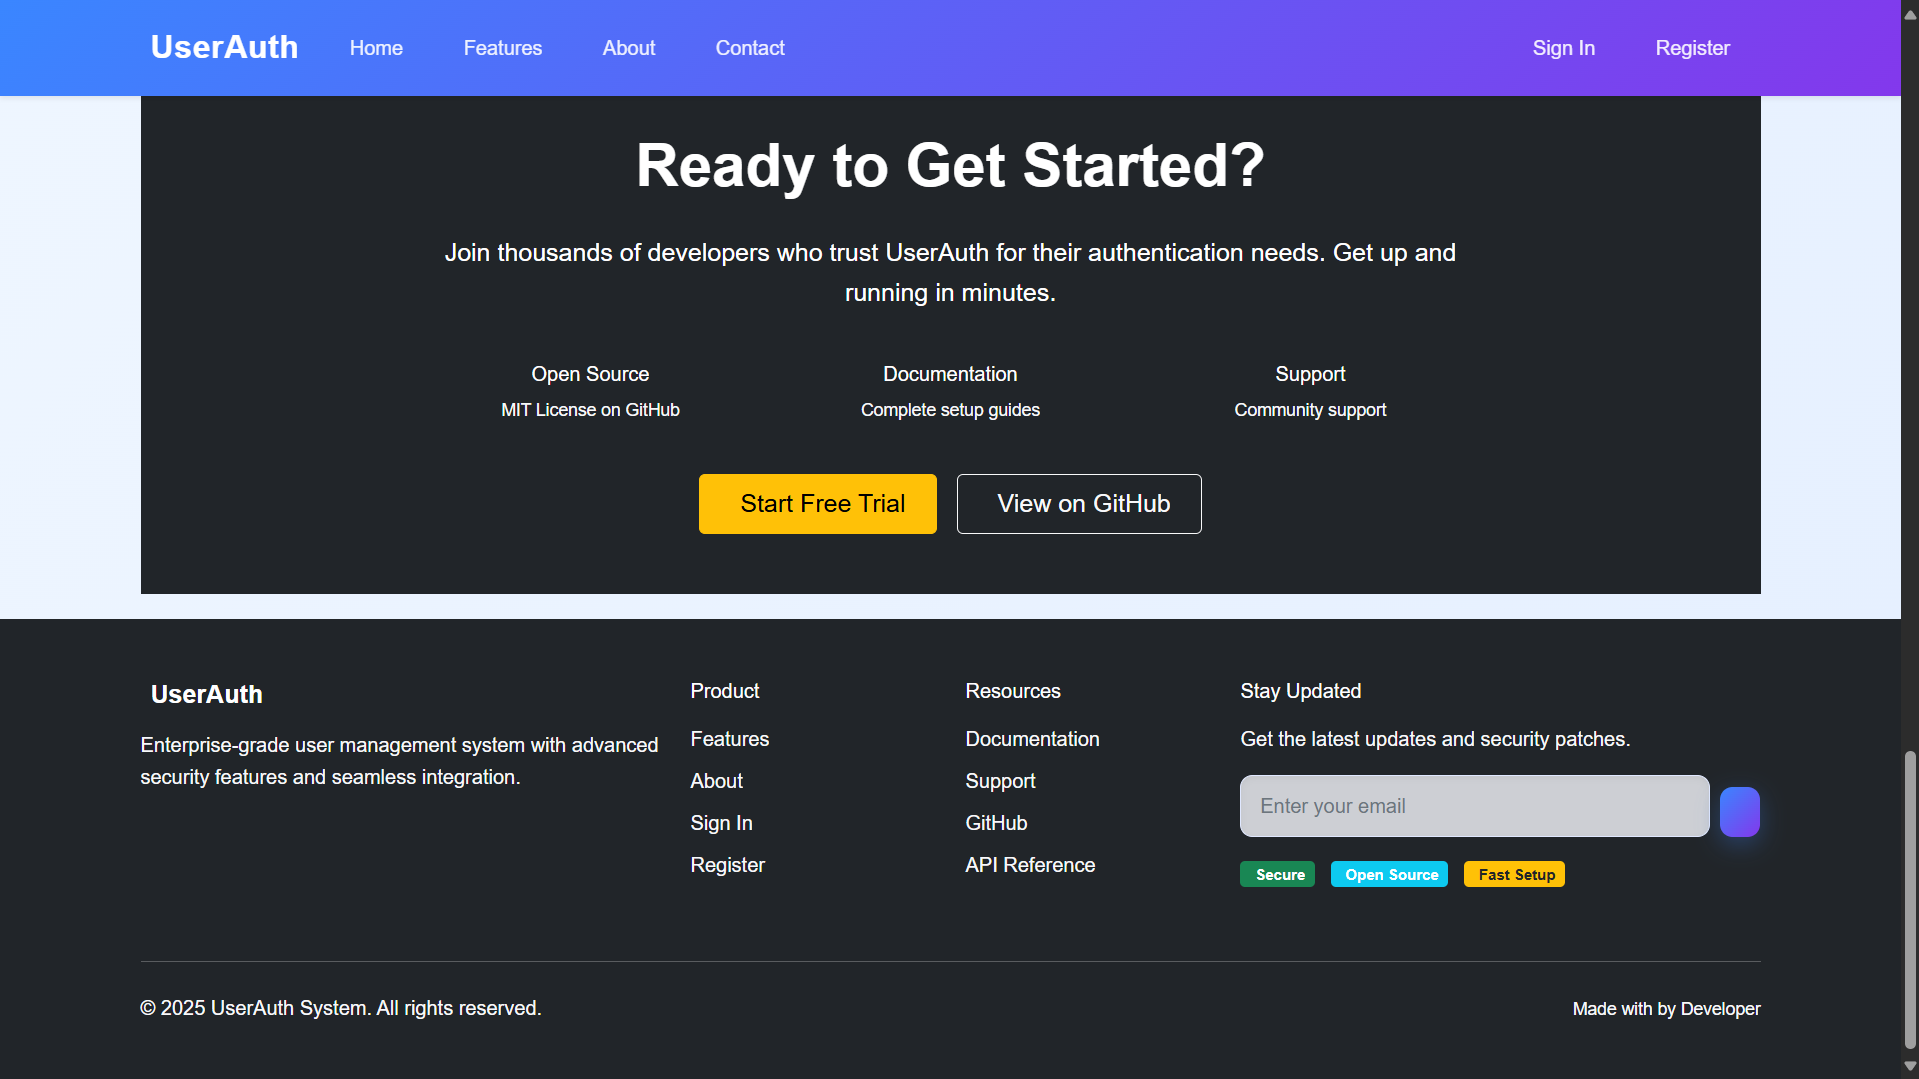
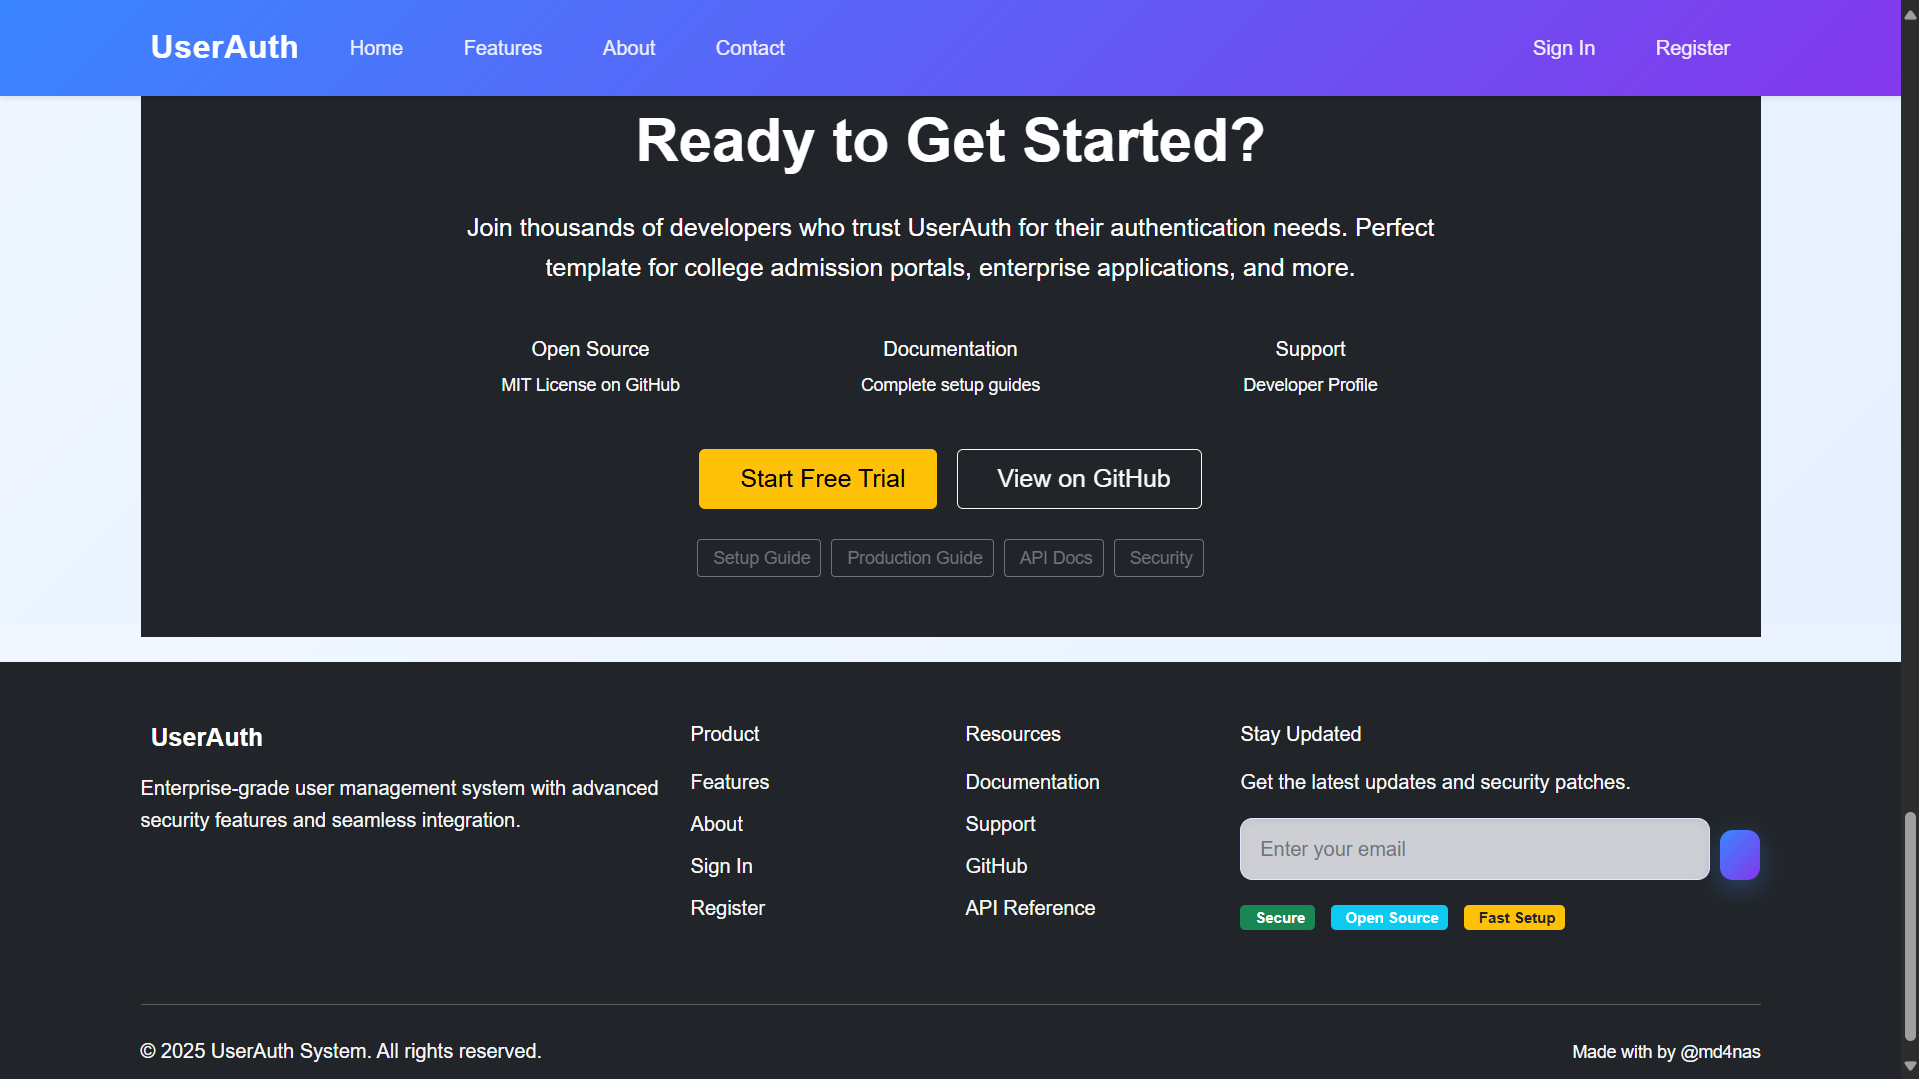
updated README.md, index.html and base.html

diff --git a/src/main/resources/templates/index.html b/src/main/resources/templates/index.html
@@ -37,12 +37,12 @@
                             <a href="/register" class="btn btn-light btn-lg px-5 py-3 fw-semibold shadow-lg hover-lift">
                                 <i class="bi bi-rocket-takeoff me-2"></i>Start Building
                             </a>
-                            <a href="/signin" class="btn btn-outline-light btn-lg px-5 py-3 fw-semibold">
-                                <i class="bi bi-play-circle me-2"></i>View Demo
+                            <a href="https://github.com/md4nas/AdvanceAuthPortal" target="_blank" class="btn btn-outline-light btn-lg px-5 py-3 fw-semibold">
+                                <i class="bi bi-github me-2"></i>View Source
                             </a>
                         </div>
                         
-                        <div class="d-flex align-items-center gap-4 text-white-50">
+                        <div class="d-flex flex-wrap align-items-center gap-4 text-white-50">
                             <div class="d-flex align-items-center">
                                 <i class="bi bi-shield-check text-success me-2"></i>
                                 <span>Enterprise Security</span>
@@ -53,7 +53,7 @@
                             </div>
                             <div class="d-flex align-items-center">
                                 <i class="bi bi-code-slash text-info me-2"></i>
-                                <span>Open Source</span>
+                                <a href="https://github.com/md4nas/AdvanceAuthPortal" target="_blank" class="text-info text-decoration-none">Open Source</a>
                             </div>
                         </div>
                     </div>
@@ -218,6 +218,69 @@
         </div>
     </section>
 
+    <!-- Documentation Section -->
+    <section id="documentation" class="py-5 bg-dark text-white">
+        <div class="container">
+            <div class="row">
+                <div class="col-12 text-center mb-5">
+                    <h2 class="display-5 fw-bold text-white">Complete Documentation</h2>
+                    <p class="lead text-white-50">Everything you need to get started and deploy to production</p>
+                </div>
+            </div>
+            <div class="row g-4">
+                <div class="col-lg-3 col-md-6">
+                    <div class="card bg-white border-0 h-100 text-center shadow">
+                        <div class="card-body p-4">
+                            <i class="bi bi-shield-check-fill fs-1 text-danger mb-3"></i>
+                            <h5 class="card-title text-dark">Setup Guide</h5>
+                            <p class="card-text text-muted mb-4">Installation and configuration instructions</p>
+                            <a href="https://github.com/md4nas/AdvanceAuthPortal/blob/main/SETUP_GUIDE.md" target="_blank" class="btn btn-primary btn-sm w-100">
+                                <i class="bi bi-arrow-right me-1"></i>Read Guide
+                            </a>
+                        </div>
+                    </div>
+                </div>
+
+                <div class="col-lg-3 col-md-6">
+                    <div class="card bg-white border-0 h-100 text-center shadow">
+                        <div class="card-body p-4">
+                            <i class="bi bi-cloud-upload-fill fs-1 text-primary mb-3"></i>
+                            <h5 class="card-title text-dark">Production Guide</h5>
+                            <p class="card-text text-muted mb-4">Complete checklist for secure production deployment</p>
+                            <a href="https://github.com/md4nas/AdvanceAuthPortal/blob/main/PRODUCTION_CHECKLIST.md" target="_blank" class="btn btn-primary btn-sm w-100">
+                                <i class="bi bi-arrow-right me-1"></i>Deploy Now
+                            </a>
+                        </div>
+                    </div>
+                </div>
+                <div class="col-lg-3 col-md-6">
+                    <div class="card bg-white border-0 h-100 text-center shadow">
+                        <div class="card-body p-4">
+                            <i class="bi bi-code-square fs-1 text-primary mb-3"></i>
+                            <h5 class="card-title text-dark">API Documentation</h5>
+                            <p class="card-text text-muted mb-4">Complete API reference and endpoint documentation</p>
+                            <a href="https://github.com/md4nas/AdvanceAuthPortal/blob/main/API_DOCUMENTATION.md" target="_blank" class="btn btn-primary btn-sm w-100">
+                                <i class="bi bi-arrow-right me-1"></i>View API
+                            </a>
+                        </div>
+                    </div>
+                </div>
+                <div class="col-lg-3 col-md-6">
+                    <div class="card bg-white border-0 h-100 text-center shadow">
+                        <div class="card-body p-4">
+                            <i class="bi bi-shield-check-fill fs-1 text-primary mb-3"></i>
+                            <h5 class="card-title text-dark">Security Guide</h5>
+                            <p class="card-text text-muted mb-4">Security architecture and best practices</p>
+                            <a href="https://github.com/md4nas/AdvanceAuthPortal/blob/main/SECURITY.md" target="_blank" class="btn btn-primary btn-sm w-100">
+                                <i class="bi bi-arrow-right me-1"></i>Learn More
+                            </a>
+                        </div>
+                    </div>
+                </div>
+            </div>
+        </div>
+    </section>
+
     <!-- About Section -->
     <section id="about" class="py-5">
         <div class="container">
@@ -226,7 +289,8 @@
                     <h2 class="display-5 fw-bold mb-4">Built for Enterprise</h2>
                     <p class="lead mb-4">
                         UserAuth is architected with enterprise-grade security, scalability, and maintainability. 
-                        Built using Spring Boot 3, PostgreSQL, and modern web technologies.
+                        Built using Spring Boot 3, PostgreSQL, and modern web technologies. 
+                        <a href="https://github.com/md4nas/AdvanceAuthPortal" target="_blank" class="text-primary text-decoration-none fw-semibold">View source code →</a>
                     </p>
                     <div class="row g-3">
                         <div class="col-6">
@@ -307,6 +371,37 @@
         </div>
     </section>
 
+    <!-- Developer Section -->
+    <section class="py-5 bg-light">
+        <div class="container">
+            <div class="row justify-content-center">
+                <div class="col-lg-8 text-center">
+                    <div class="d-flex justify-content-center mb-4">
+                        <div class="bg-primary bg-gradient rounded-circle p-4">
+                            <i class="bi bi-person-badge text-white fs-1"></i>
+                        </div>
+                    </div>
+                    <h3 class="fw-bold mb-3">Made with ❤ by <a href="https://github.com/md4nas" target="_blank" class="text-primary text-decoration-none">@md4nas</a></h3>
+                    <p class="lead text-muted mb-4">
+                        Full-stack developer passionate about building secure, scalable applications. 
+                        This project serves as a foundation for enterprise user management systems.
+                    </p>
+                    <div class="d-flex flex-wrap justify-content-center gap-3">
+                        <a href="https://github.com/md4nas" target="_blank" class="btn btn-dark btn-lg px-4 py-3">
+                            <i class="bi bi-github me-2"></i>GitHub Profile
+                        </a>
+                        <a href="https://github.com/md4nas/AdvanceAuthPortal" target="_blank" class="btn btn-warning btn-lg px-4 py-3">
+                            <i class="bi bi-star me-2"></i>Star this Project
+                        </a>
+                        <a href="https://github.com/md4nas/AdvanceAuthPortal/fork" target="_blank" class="btn btn-success btn-lg px-4 py-3">
+                            <i class="bi bi-bezier2 me-2"></i>Fork Project
+                        </a>
+                    </div>
+                </div>
+            </div>
+        </div>
+    </section>
+
     <!-- CTA Section -->
     <section id="contact" class="py-5 bg-dark text-white">
         <div class="container">
@@ -315,32 +410,62 @@
                     <h2 class="display-5 fw-bold mb-4">Ready to Get Started?</h2>
                     <p class="lead mb-4">
                         Join thousands of developers who trust UserAuth for their authentication needs. 
-                        Get up and running in minutes.
+                        Perfect template for college admission portals, enterprise applications, and more.
                     </p>
                     <div class="row g-4 mb-4">
                         <div class="col-md-4">
-                            <i class="bi bi-github fs-1 text-warning mb-3 d-block"></i>
-                            <h6>Open Source</h6>
-                            <p class="small text-light opacity-75">MIT License on GitHub</p>
+                            <a href="https://github.com/md4nas/AdvanceAuthPortal" target="_blank" class="text-decoration-none text-white">
+                                <i class="bi bi-github fs-1 text-warning mb-3 d-block"></i>
+                                <h6>Open Source</h6>
+                                <p class="small text-light opacity-75">MIT License on GitHub</p>
+                            </a>
                         </div>
                         <div class="col-md-4">
-                            <i class="bi bi-book fs-1 text-warning mb-3 d-block"></i>
-                            <h6>Documentation</h6>
-                            <p class="small text-light opacity-75">Complete setup guides</p>
+                            <a href="https://github.com/md4nas/AdvanceAuthPortal/blob/main/SETUP_GUIDE.md" target="_blank" class="text-decoration-none text-white">
+                                <i class="bi bi-book fs-1 text-warning mb-3 d-block"></i>
+                                <h6>Documentation</h6>
+                                <p class="small text-light opacity-75">Complete setup guides</p>
+                            </a>
                         </div>
                         <div class="col-md-4">
-                            <i class="bi bi-headset fs-1 text-warning mb-3 d-block"></i>
-                            <h6>Support</h6>
-                            <p class="small text-light opacity-75">Community support</p>
+                            <a href="https://github.com/md4nas" target="_blank" class="text-decoration-none text-white">
+                                <i class="bi bi-headset fs-1 text-warning mb-3 d-block"></i>
+                                <h6>Support</h6>
+                                <p class="small text-light opacity-75">Developer Profile</p>
+                            </a>
                         </div>
                     </div>
-                    <div class="d-flex flex-column flex-md-row gap-3 justify-content-center">
+                    <div class="d-flex flex-column flex-md-row gap-3 justify-content-center mb-4">
                         <a href="/register" class="btn btn-warning btn-lg px-4">
                             <i class="bi bi-rocket-takeoff me-2"></i>Start Free Trial
                         </a>
-                        <a href="https://github.com/md4nas/UserAuth-System" class="btn btn-outline-light btn-lg px-4">
+                        <a href="https://github.com/md4nas/AdvanceAuthPortal" target="_blank" class="btn btn-outline-light btn-lg px-4">
                             <i class="bi bi-github me-2"></i>View on GitHub
                         </a>
+                    </div>
+                    
+                    <!-- Quick Links -->
+                    <div class="row g-2 justify-content-center">
+                        <div class="col-auto">
+                            <a href="https://github.com/md4nas/AdvanceAuthPortal/blob/main/SETUP_GUIDE.md" target="_blank" class="btn btn-sm btn-outline-secondary">
+                                <i class="bi bi-gear me-1"></i>Setup Guide
+                            </a>
+                        </div>
+                        <div class="col-auto">
+                            <a href="https://github.com/md4nas/AdvanceAuthPortal/blob/main/PRODUCTION_CHECKLIST.md" target="_blank" class="btn btn-sm btn-outline-secondary">
+                                <i class="bi bi-cloud-upload me-1"></i>Production Guide
+                            </a>
+                        </div>
+                        <div class="col-auto">
+                            <a href="https://github.com/md4nas/AdvanceAuthPortal/blob/main/API_DOCUMENTATION.md" target="_blank" class="btn btn-sm btn-outline-secondary">
+                                <i class="bi bi-code-square me-1"></i>API Docs
+                            </a>
+                        </div>
+                        <div class="col-auto">
+                            <a href="https://github.com/md4nas/AdvanceAuthPortal/blob/main/SECURITY.md" target="_blank" class="btn btn-sm btn-outline-secondary">
+                                <i class="bi bi-shield-check me-1"></i>Security
+                            </a>
+                        </div>
                     </div>
                 </div>
             </div>

diff --git a/src/main/resources/templates/base.html b/src/main/resources/templates/base.html
@@ -322,7 +322,7 @@
                 </div>
                 <div class="col-md-6 text-md-end">
                     <small class="text-light opacity-50">
-                        Made with <i class="bi bi-heart-fill text-danger"></i> by Developer
+                        Made with <i class="bi bi-heart-fill text-danger"></i> by <a href="https://github.com/md4nas" target="_blank" class="text-light text-decoration-none">@md4nas</a>
                     </small>
                 </div>
             </div>

diff --git a/README.md b/README.md
@@ -196,13 +196,17 @@ graph TB
 │   ├── API_DOCUMENTATION.md               # Complete API Reference
 │   ├── DEPLOYMENT.md                      # Deployment & DevOps Guide
 │   ├── SECURITY.md                        # Security Architecture
-│   └── HELP.md                           # User Manual & Troubleshooting
+│   ├── HELP.md                           # User Manual & Troubleshooting
+│   ├── SETUP_GUIDE.md                    # Complete Setup Instructions
+│   └── PRODUCTION_CHECKLIST.md           # Production Deployment Guide
 │
 ├── 📸 screenshots/                        # Application Screenshots
 ├── 🔧 Configuration Files
-│   ├── .env                               # Environment variables
+│   ├── .env.template                     # Environment variables template
 │   ├── pom.xml                           # Maven dependencies
 │   ├── .gitignore                        # Git ignore rules
+│   ├── SETUP_GUIDE.md                    # Complete setup instructions
+│   ├── PRODUCTION_CHECKLIST.md           # Production deployment guide
 │   └── README.md                         # This file
 │
 └── 🧪 src/test/                          # Test Files
@@ -225,72 +229,30 @@ graph TB
 | 📦 **Maven** | 3.8+ | Build Tool |
 | 🔧 **IntelliJ IDEA** | 2023+ | IDE (Recommended) |
 
-### ⚡ **Installation Steps**
+### ⚡ **Quick Start**
 
-<details>
-<summary>🔽 <strong>Step-by-step installation guide</strong></summary>
-
-#### 1⃣ **Clone Repository**
 ```bash
+# 1. Clone repository
 git clone <your-repository-url>
 cd UserAuth-System
-```
 
-#### 2⃣ **Database Setup**
-```sql
--- Create PostgreSQL database
-CREATE DATABASE userauth_db;
-CREATE USER userauth_user WITH PASSWORD 'your_secure_password';
-GRANT ALL PRIVILEGES ON DATABASE userauth_db TO userauth_user;
-```
+# 2. Copy environment template
+cp .env.template .env
 
-#### 3⃣ **Environment Configuration**
-Create `.env` file in project root:
-```env
-# Database Configuration
-DATABASE_URL=jdbc:postgresql://localhost:5432/userauth_db
-DATABASE_USERNAME=userauth_user
-DATABASE_PASSWORD=your_secure_password
+# 3. Edit .env with your credentials
+# (See SETUP_GUIDE.md for detailed instructions)
 
-# Email Configuration (Brevo SMTP)
-MAIL_USERNAME=your_brevo_email
-BREVO_SMTP_PASSWORD=your_brevo_api_key
-
-# OAuth2 Configuration
-GOOGLE_CLIENT_ID=your_google_client_id
-GOOGLE_CLIENT_SECRET=your_google_client_secret
-GITHUB_CLIENT_ID=your_github_client_id
-GITHUB_CLIENT_SECRET=your_github_client_secret
-
-# Admin Setup
-ADMIN_EMAIL=admin@yourcompany.com
-ADMIN_PASSWORD=SecureAdminPass123!
-ADMIN_NAME=System Administrator
-
-# Server Configuration
-SERVER_PORT=8080
-```
-
-#### 4⃣ **Build & Run**
-```bash
-# Build the application
+# 4. Build and run
 mvn clean install
-
-# Run the application
 mvn spring-boot:run
 
-# Or run the JAR file
-java -jar target/userauth-system-1.0.0.jar
+# 5. Access application
+# http://localhost:8080
 ```
 
-#### 5⃣ **Access Application**
-- 🌐 **Application URL**: http://localhost:8080
-- 👤 **Admin Login**: Use credentials from `.env` file
-- 📧 **Email Verification**: Check your email for verification links
-- 🎨 **Modern UI**: Responsive design with role-based dashboards
-- 🔒 **Security**: Enterprise-grade authentication and authorization
+📖 **For detailed setup instructions, see [SETUP_GUIDE.md](SETUP_GUIDE.md)**
 
-</details>
+🚀 **For production deployment, see [PRODUCTION_CHECKLIST.md](PRODUCTION_CHECKLIST.md)**
 
 ### 📧 **SMTP Email Setup (Critical)**
 
@@ -549,12 +511,12 @@ flowchart TD
 | ![Admin Student Details](screenshots/T14_admin_std_details.png) | ![Admin Teacher Details](screenshots/T15_admin_ter_details.png) |
 | *Admin student oversight* | *Admin teacher management* |
 
-### ⚙ **Account Management**
+### ⚙ **Account Management & Settings**
 
-| Change Password |
-|-----------------|
-| ![Change Password](screenshots/T16_change_password.png) |
-| *Secure password change interface* |
+| Change Password | User Settings |
+|-----------------|---------------|
+| ![Change Password](screenshots/T16_change_password.png) | ![User Dashboard 2](screenshots/T11_user_dashboard2.png) |
+| *Secure password change interface* | *User profile and settings* |
 
 ### 📧 **Email Verification System**
 
@@ -718,6 +680,13 @@ This project is licensed under the **MIT License** - see the [LICENSE](LICENSE) 
 
 ## ⚠ **Important Notes**
 
+### 🚀 **For New Users**
+1. **Start Here**: Read [SETUP_GUIDE.md](SETUP_GUIDE.md) for complete setup instructions
+2. **Environment Setup**: Copy `.env.template` to `.env` and configure your credentials
+3. **Email Required**: SMTP configuration is mandatory for user verification
+4. **Database Setup**: PostgreSQL must be installed and configured
+5. **Admin Access**: Default admin account is created automatically
+
 ### 📧 **Email Configuration is Mandatory**
 The application **requires** SMTP configuration to function properly. Without email setup:
 - Users cannot verify their accounts
@@ -727,15 +696,24 @@ The application **requires** SMTP configuration to function properly. Without em
 ### 🔒 **Security Considerations**
 - Change default admin credentials immediately
 - Use strong passwords for all accounts
+- Never commit `.env` file to version control
 - Enable HTTPS in production
 - Regularly update dependencies
 - Monitor application logs for security events
 
-### 📞 **Support**
+### 🚀 **Production Deployment**
+- Follow [PRODUCTION_CHECKLIST.md](PRODUCTION_CHECKLIST.md) before going live
+- Use environment variables instead of `.env` file
+- Enable SSL/HTTPS certificates
+- Configure proper database security
+- Set up monitoring and logging
+
+### 📞 **Support & Documentation**
 For technical support or questions:
-- Check [HELP.md](HELP.md) for detailed user guide
-- Review [SECURITY.md](SECURITY.md) for security best practices
-- See [DEPLOYMENT.md](DEPLOYMENT.md) for production deployment
-- Consult [API_DOCUMENTATION.md](API_DOCUMENTATION.md) for API details
+- **Setup Issues**: Check [SETUP_GUIDE.md](SETUP_GUIDE.md)
+- **Production Deployment**: See [PRODUCTION_CHECKLIST.md](PRODUCTION_CHECKLIST.md)
+- **Security Best Practices**: Review [SECURITY.md](SECURITY.md)
+- **API Reference**: Consult [API_DOCUMENTATION.md](API_DOCUMENTATION.md)
+- **User Manual**: Check [HELP.md](HELP.md) for troubleshooting
 
 </div>
